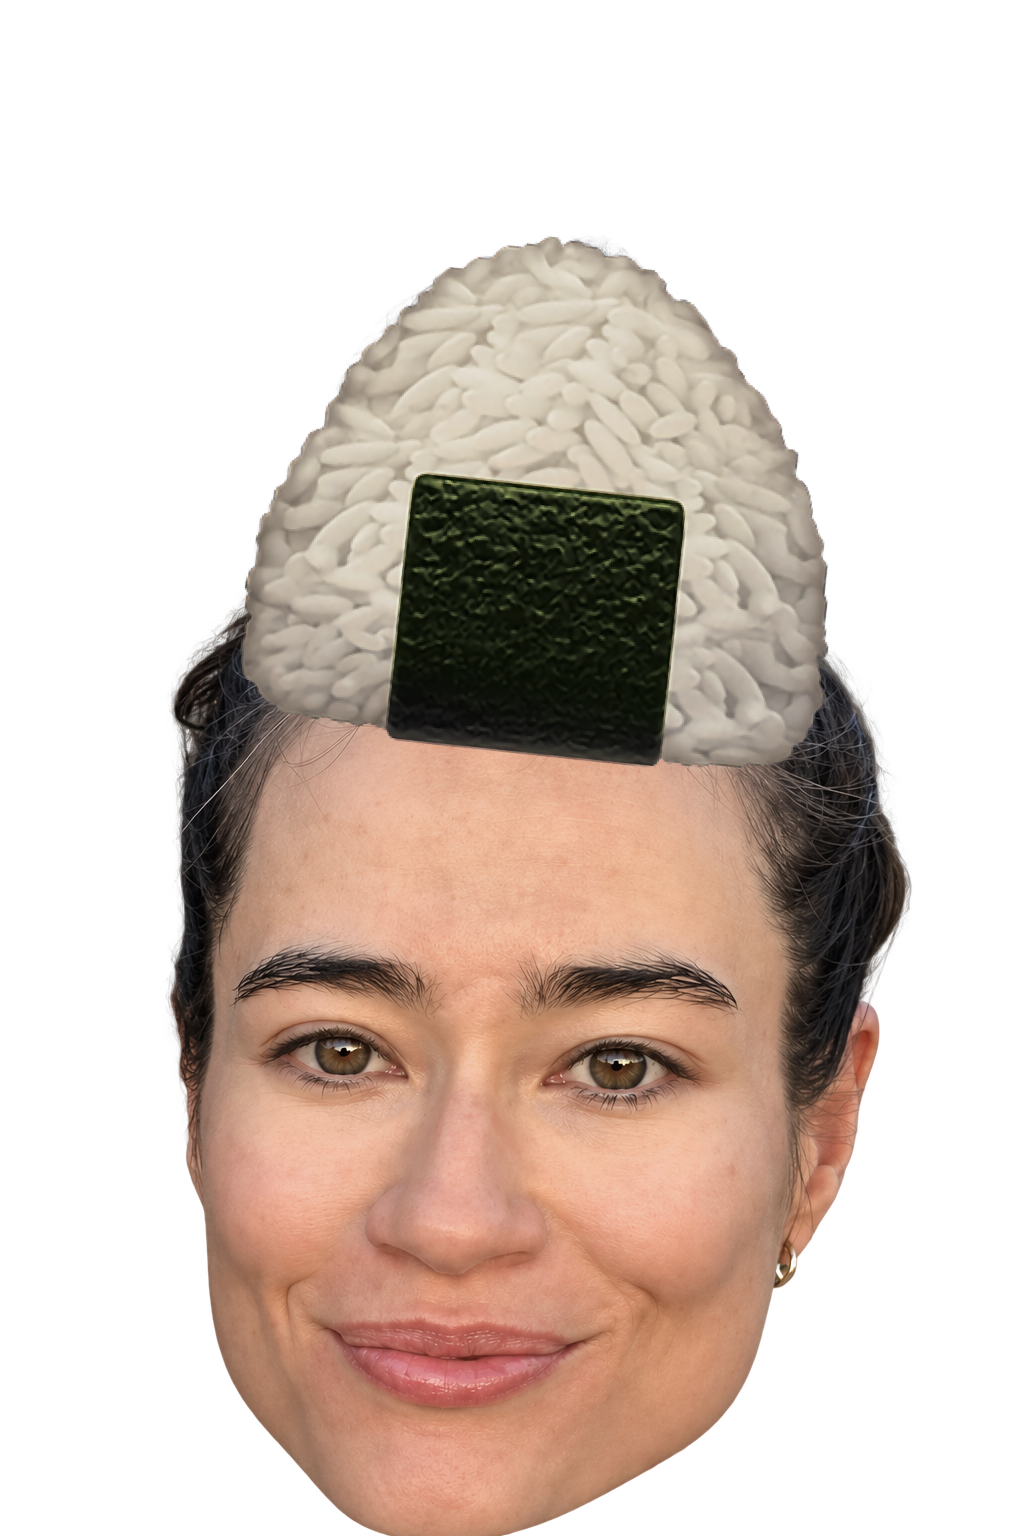
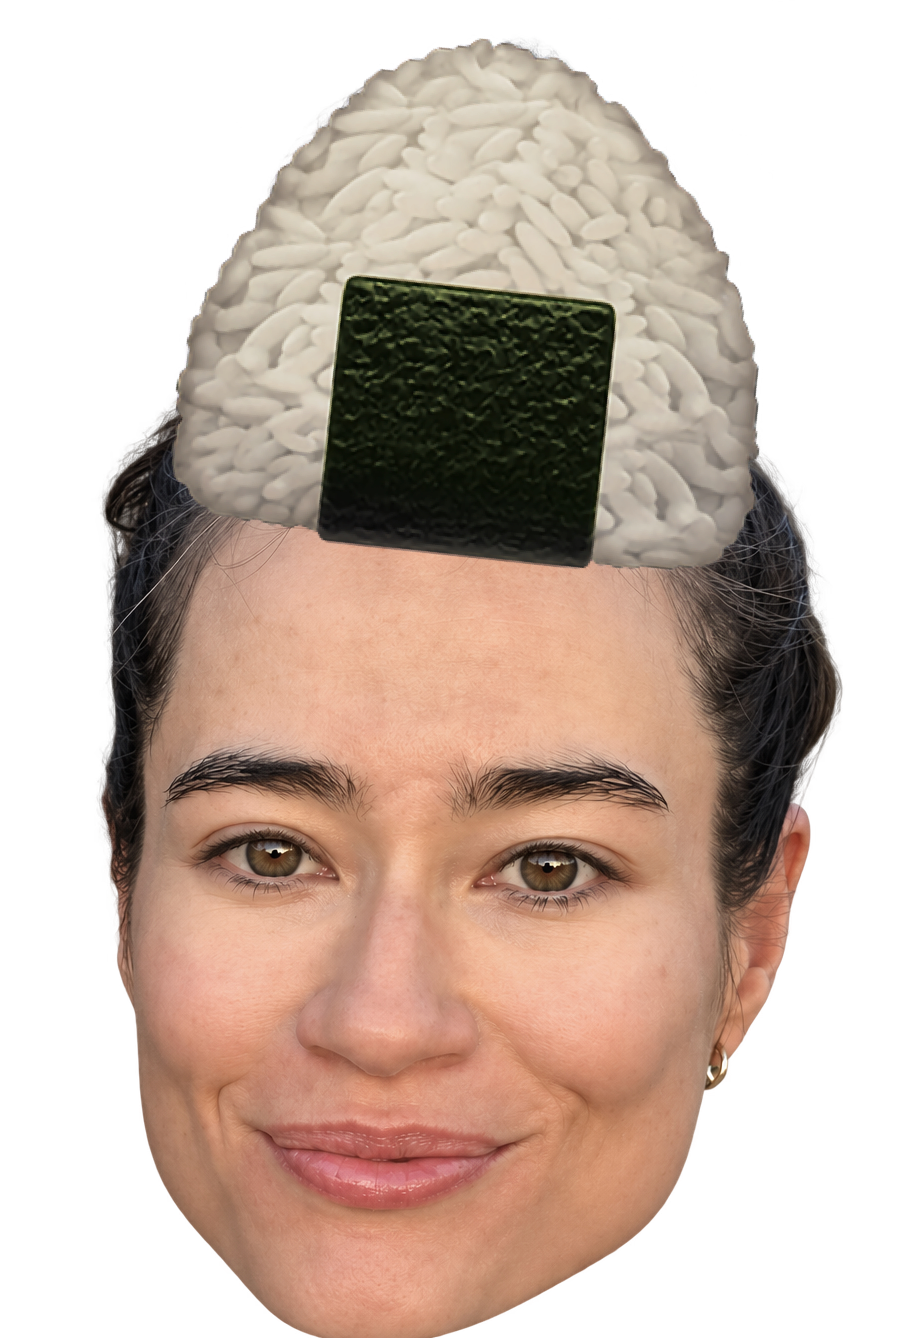
img updates

diff --git a/src/App.tsx b/src/App.tsx
@@ -332,6 +332,7 @@ function AppContent() {
                 className="
                   h-72 w-full
                   object-cover
+                  md:h-72
                 "
               />
 
@@ -341,62 +342,66 @@ function AppContent() {
                   mx-3 -mt-10
                   rounded-3xl
                   bg-base-100
-                  p-4
                   shadow-xl
                   md:mx-6
                   md:p-6
+                  p-5
                 "
               >
                 <div
                   className="
-                    flex items-end
-                    justify-between
+                    grid
+                    grid-cols-[minmax(0,1fr)_auto]
+                    items-center
                     gap-2
                   "
                 >
                   {/* Hero text */}
                   <div className="min-w-0">
-                    <p
-                      className="
-                        text-sm font-semibold
-                        uppercase
-                        tracking-[0.2em]
-                        text-primary
-                      "
-                    >
-                      Japan 2026
-                    </p>
+                  <p
+                  className="
+                    text-sm font-semibold
+                    uppercase
+                    tracking-[0.2em]
+                    text-primary
+                
+                  "
+                >
+                  Japan 2026
+                </p>
 
-                    <h1
-                      className="
-                        mt-1 text-3xl
-                        font-bold
-                        tracking-tight
-                      "
-                    >
-                      Buhbee-san in Japan
-                    </h1>
+                  <h1
+                    className="
+                      mt-2
+                      text-3xl font-bold
+                      leading-tight
+                      tracking-tight
+                      md:text-4xl
+                    "
+                  >
+                    Buhbee-san in Japan
+                  </h1>
 
-                    <div
-                      className="
-                        mt-4 flex
-                        flex-wrap gap-4
-                        text-sm
-                        text-base-content/60
-                      "
-                    >
+                  <div
+                    className="
+                      mt-4 flex flex-wrap
+                      gap-4
+                      text-xs
+                      text-base-content/60
+                    "
+                  >
                       <div className="flex items-center gap-2">
-                        <CalendarDays className="h-4 w-4" />
+                        <CalendarDays className="h-4 w-4 shrink-0" />
 
-                        <span>
+                        <span className="whitespace-nowrap">
                           24 Oct – 9 Nov
                         </span>
                       </div>
 
                       <div className="flex items-center gap-2">
-                        <Clock className="h-4 w-4" />
+                        <Clock className="h-4 w-4 shrink-0" />
 
-                        <span>
+                        <span className="whitespace-nowrap">
                           17 days
                         </span>
                       </div>
@@ -409,40 +414,46 @@ function AppContent() {
                       flex shrink-0
                       items-end
                       gap-0
-                      pt-3
+                      pr-3
                     "
                   >
-            <img
-              src={onigiriP}
-              alt=""
-              className="
-                -mt-6
-                h-28 w-auto
-                object-contain
-                animate-gentle-tilt
-                pb-1
-                pr-4
-              "
-            />
+                    <img
+                      src={onigiriP}
+                      alt=""
+                      className="
+                        h-24 w-auto
+                        object-contain
+                        pr-2
+                        animate-gentle-tilt
+                        sm:h-28
+                        sm:pr-6
+                        mr-2
+                      "
+                    />
 
-            <img
-              src={sushiB}
-              alt=""
-              className="
-                -mt-6
-                h-28 w-auto
-                object-contain
-                animate-gentle-tilt-reverse
-              "
-            />
-              
+                    <img
+                      src={sushiB}
+                      alt=""
+                      className="
+                        h-24 w-auto
+                        object-contain
+                        animate-gentle-tilt-reverse
+                        sm:h-28
+                      "
+                    />
                   </div>
                 </div>
               </div>
-            </div>
+</div>
 
             {/* Days */}
-          <div className="mx-auto max-w-3xl px-6 py-10">
+            <div
+              className="
+                mx-auto max-w-3xl
+                px-3 py-6
+                md:px-6 md:py-10
+              "
+            >
               {itinerary.map(
                 (
                   day,
